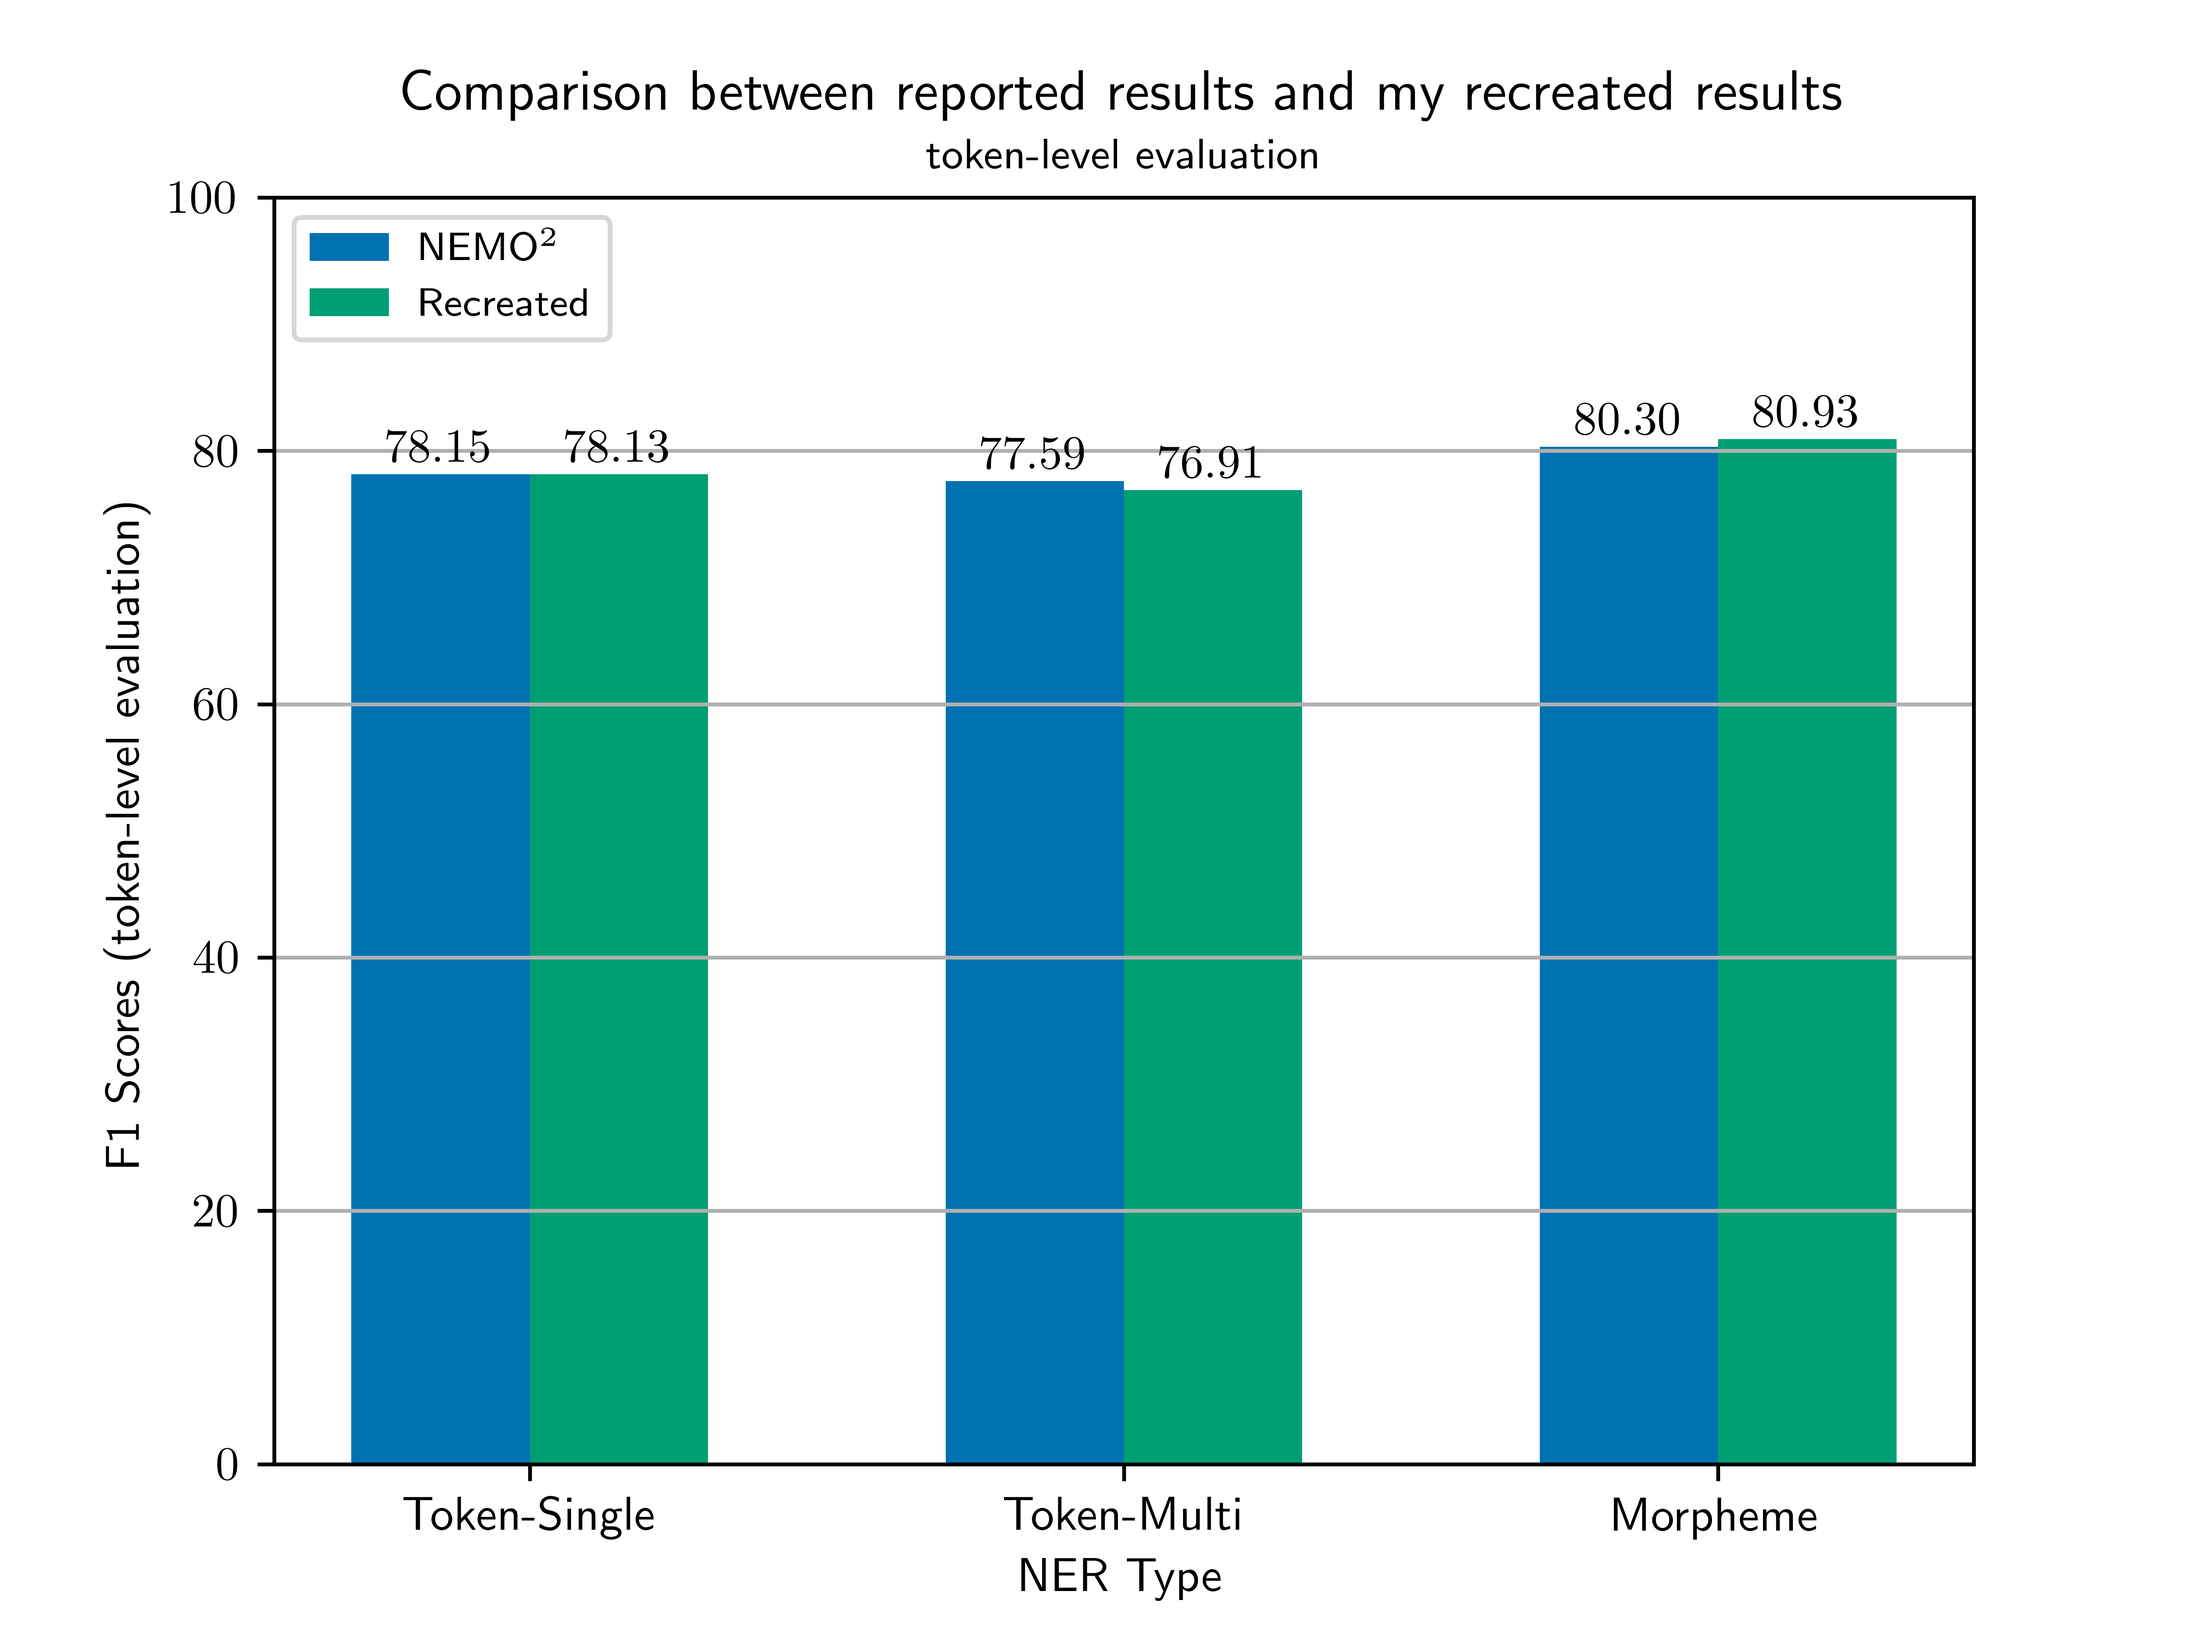
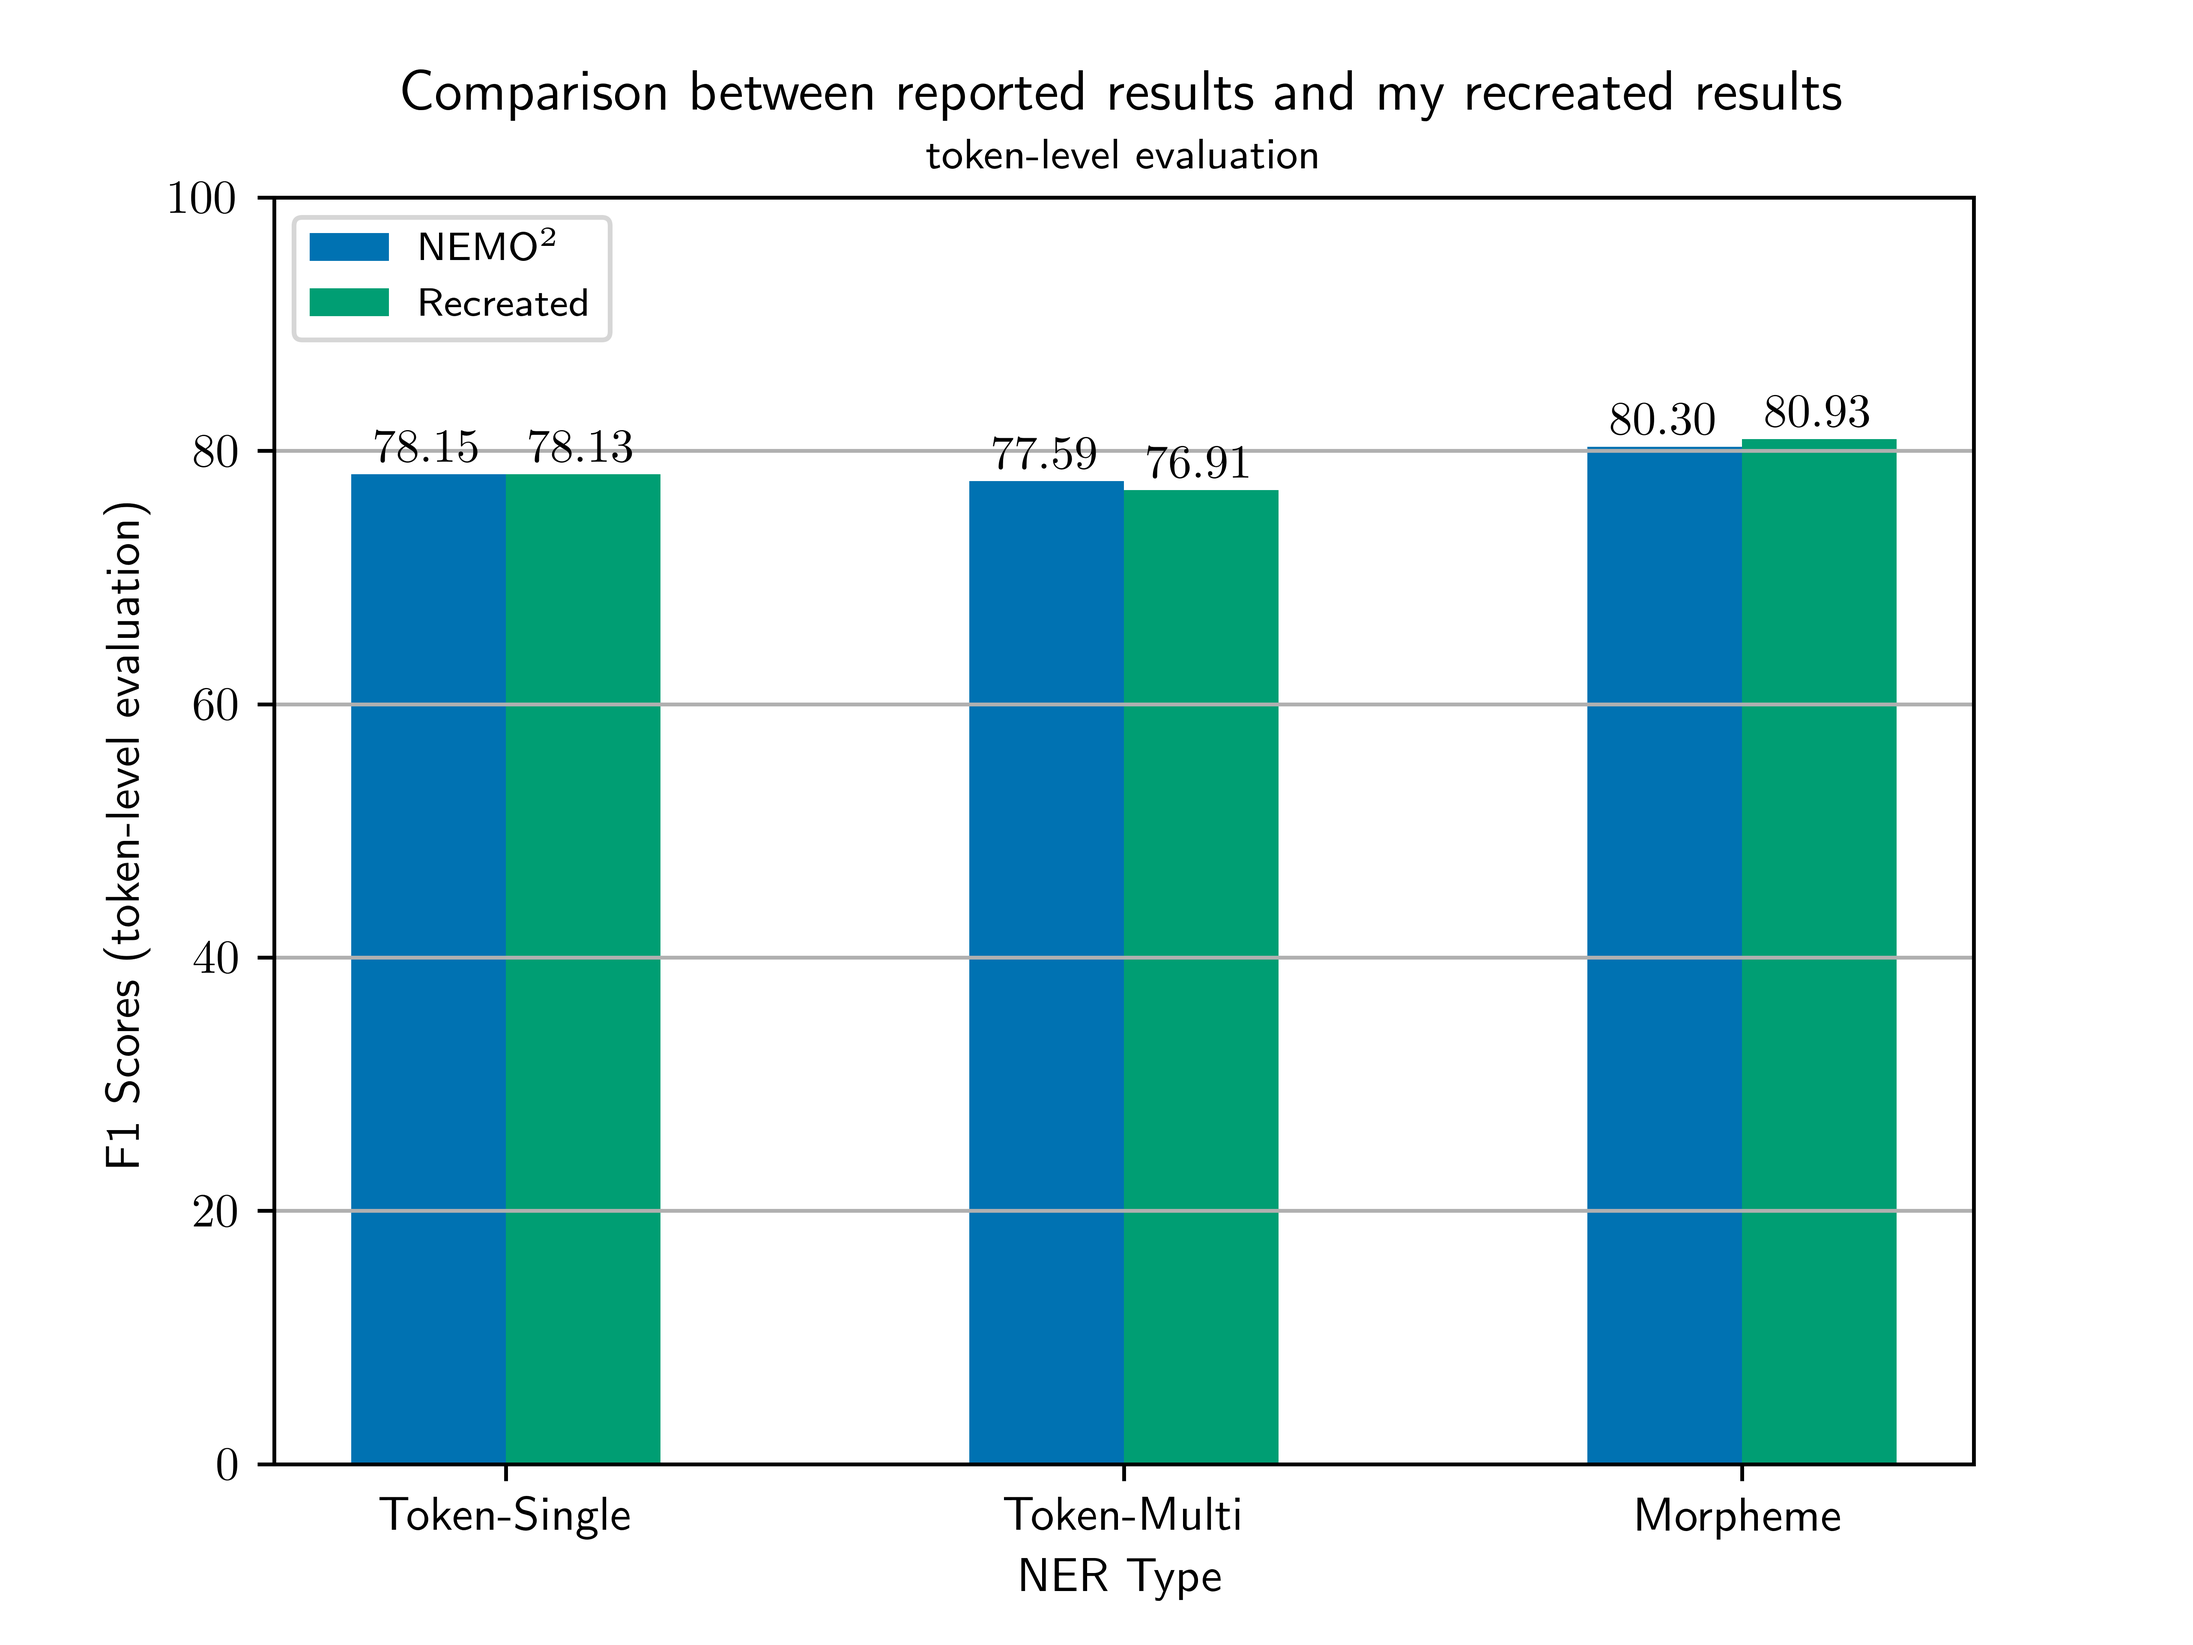
narrower bars

diff --git a/utils/eval/graphing/basic.py b/utils/eval/graphing/basic.py
@@ -56,4 +56,4 @@ if __name__ == '__main__':
                     title='Comparison between reported results and my recreated results\n' +r"\small{token-level evaluation}",
                     # save=None,
                     save='graphs/standard/token_eval.png',
-                    bar_width=0.3)
+                    bar_width=0.25)
